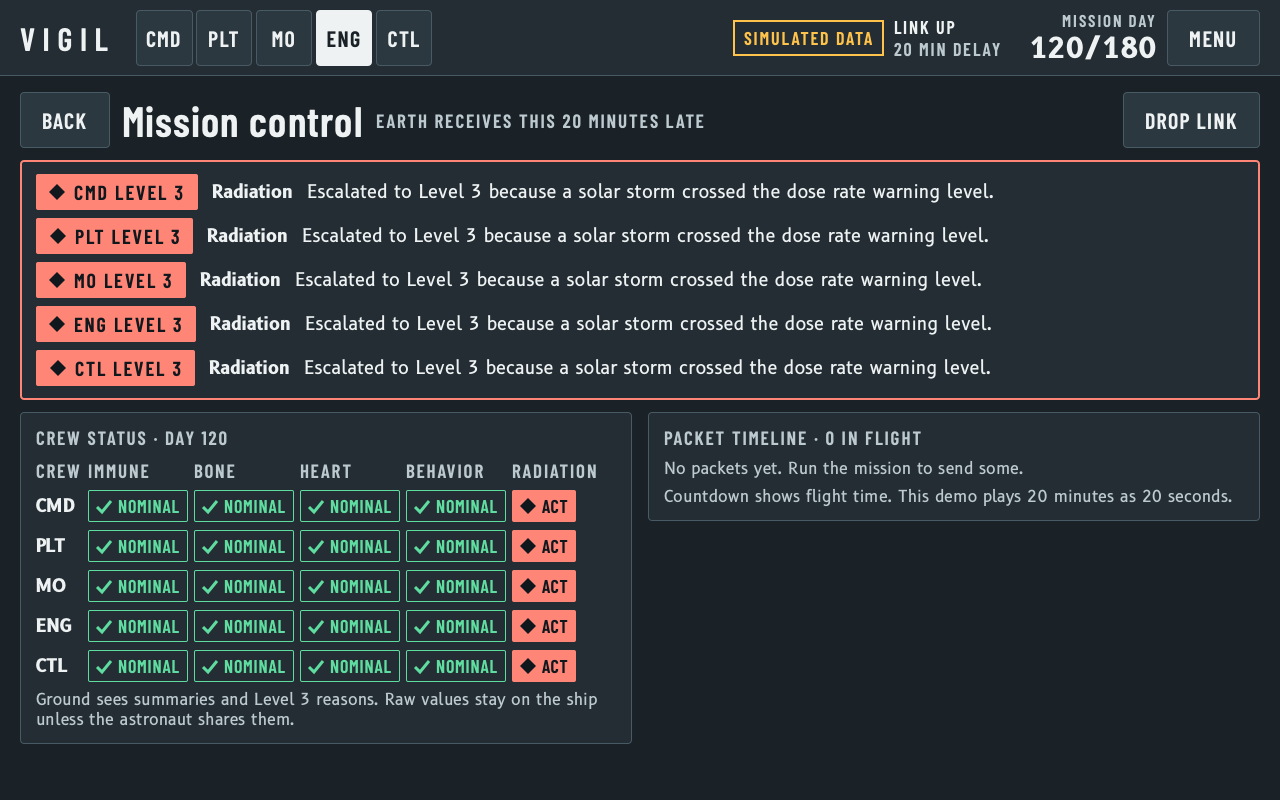
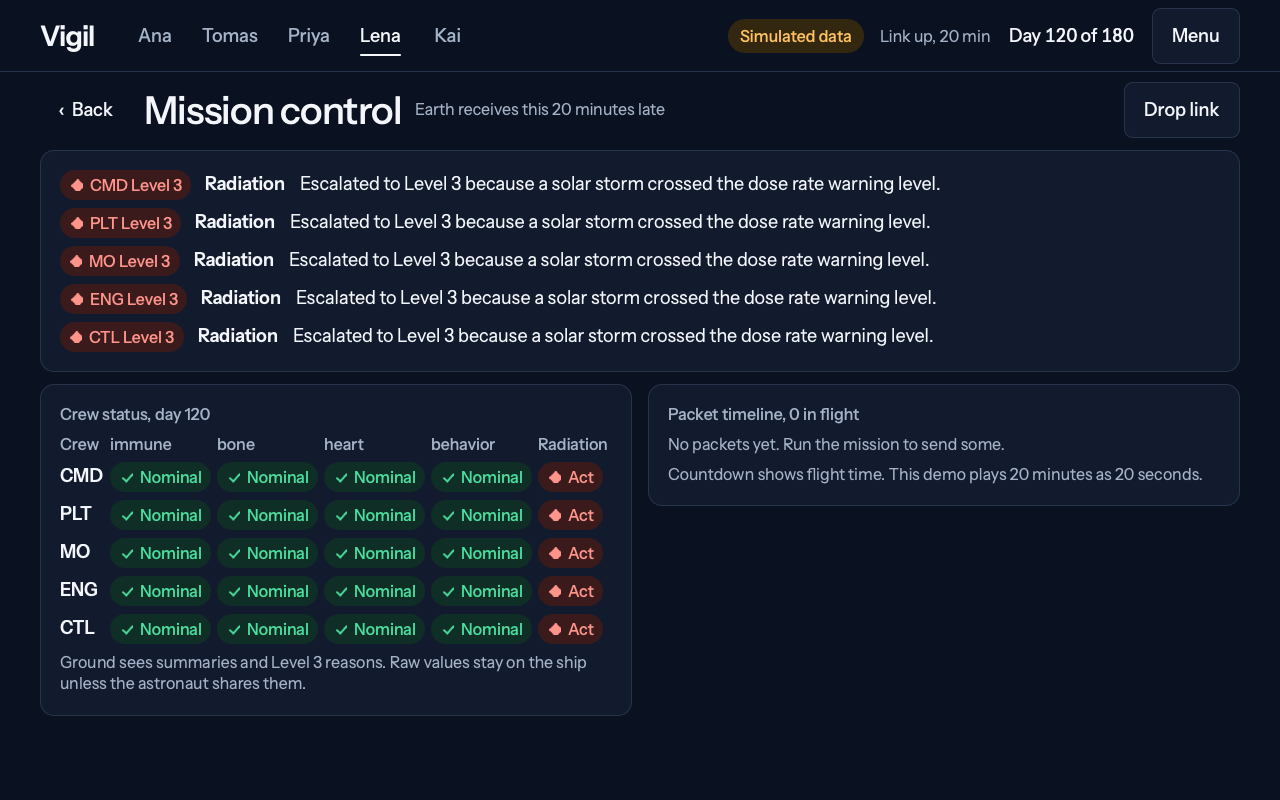
Finish redesign across all screens

diff --git a/frontend/qml/ResultsScreen.qml b/frontend/qml/ResultsScreen.qml
@@ -6,7 +6,7 @@ Item {
     readonly property var d: Api.ask("results", { v: vigil.version })
 
     function verdict(e) {
-        if (e.id === "solar_storm") return "Vigil passed on the monitor's warning " + Math.abs(e.vigil_vs_onset.mean) + " hours before onset. A fixed dose alarm fires " + e.fixed_alarm.mean + " hours after onset."
+        if (e.id === "solar_storm") return "Vigil passed on the monitor's warning " + Math.abs(e.vigil_vs_onset.mean) + " hours before onset. A fixed dose alarm fires " + e.fixed_alarm.mean + (e.fixed_alarm.mean === 1 ? " hour" : " hours") + " after onset."
         var quiet = e.fixed.quiet, lead = quiet.lead_vigil_earlier, missed = quiet.missed_by_fixed_found_by_vigil
         var never = missed > 0 ? " The fixed alarm never fired in " + missed + " of " + e.runs + " runs." : ""
         if (lead.n === 0 || lead.mean === null) return "A fixed alarm never fired." + never

diff --git a/frontend/qml/AlertScreen.qml b/frontend/qml/AlertScreen.qml
@@ -66,7 +66,7 @@ Item {
                     Layout.fillWidth: true
                     visible: !!screen.d.protocol
                     divider: true
-                    title: screen.d.protocol ? screen.d.protocol.name + " · " + screen.d.protocol.minutes + " min" : ""
+                    title: screen.d.protocol ? screen.d.protocol.name.charAt(0).toUpperCase() + screen.d.protocol.name.slice(1) + ", " + screen.d.protocol.minutes + " min" : ""
                     Body { text: screen.d.protocol ? screen.d.protocol.steps.join(" ") : "" }
                     Note { text: screen.d.protocol ? "Stop and escalate if: " + screen.d.protocol.escalate_if + " " + screen.d.protocol_label : "" }
                 }

diff --git a/frontend/qml/GroundScreen.qml b/frontend/qml/GroundScreen.qml
@@ -64,7 +64,7 @@ Item {
                     columnSpacing: 6
                     rowSpacing: 8
                     Placard { text: "Crew" }
-                    Repeater { model: screen.systemKeys; Placard { required property string modelData; text: modelData } }
+                    Repeater { model: screen.systemKeys; Placard { required property string modelData; text: modelData.charAt(0).toUpperCase() + modelData.slice(1) } }
                     Placard { text: "Radiation" }
                     Repeater {
                         model: screen.d.crew.length * (screen.systemKeys.length + 2)

diff --git a/frontend/qml/EarthScreen.qml b/frontend/qml/EarthScreen.qml
@@ -46,7 +46,7 @@ Item {
                             Row {
                                 required property string modelData
                                 spacing: 6
-                                Placard { text: modelData; anchors.verticalCenter: parent.verticalCenter }
+                                Placard { text: modelData.charAt(0).toUpperCase() + modelData.slice(1); anchors.verticalCenter: parent.verticalCenter }
                                 StatusPill { status: screen.d.preview.systems[modelData]; compact: true }
                             }
                         }

diff --git a/frontend/qml/Ribbon.qml b/frontend/qml/Ribbon.qml
@@ -51,7 +51,7 @@ Canvas {
             if (!n) return 0
             var p = u * (n - 1), i = Math.floor(p), f = p - i
             var e = f * f * (3 - 2 * f)
-            return Math.min(1, (smooth[i] + (smooth[Math.min(i + 1, n - 1)] - smooth[i]) * e) / 60)
+            return Math.max(0, Math.min(1, (smooth[i] + (smooth[Math.min(i + 1, n - 1)] - smooth[i]) * e - 25) / 60))
         }
         function thickness(u) { return (70 + 130 * Math.sin(u * Math.PI)) * (1 + 0.9 * amount(u)) }
         function twist(u) { return Math.cos(u * 3.05 + 0.25) }

diff --git a/scripts/evaluate_detector.py b/scripts/evaluate_detector.py
@@ -193,7 +193,7 @@ def write_markdown(out: dict, path: Path) -> None:
     storm = next(e for e in out["events"] if e["id"] == "solar_storm")
     lines += [
         "", f"The storm warning comes from the simulated solar monitor. Vigil relays it {abs(storm['vigil_vs_onset']['mean'])} hours before onset. Vigil does not predict storms. "
-        f"A fixed dose rate alarm at twice normal fires {storm['fixed_alarm']['mean']} hours after onset.", "",
+        f"A fixed dose rate alarm at twice normal fires {storm['fixed_alarm']['mean']} hour(s) after onset.", "",
         "## Against fixed population limits", "",
         "A fixed limit is one number for everyone: population mean plus k standard deviations.",
         "**Sensitive** uses k = 2. **Quiet** uses k = 3, the fixed setting closest to Vigil's false alarm rate. "

diff --git a/docs/design-principles.md b/docs/design-principles.md
@@ -7,11 +7,11 @@ Vigil follows the eight principles in Apple's Human Interface Guidelines. Vigil 
 | **Purpose.** Make something meaningful. | The one question is "Am I still me?" | Home answers it first: All Clear, Watching, or an alert in plain words. Personal baselines are the core idea, and the rest supports them. |
 | **Agency.** Let people do things their own way. | A tired person makes mistakes. A guided flow must never trap them. | Undo after every alert action, also on Ctrl+Z. Shelter steps can be skipped or gone back through. The Demo Director has Next and Stop. Every screen has Back, and Esc does the same. |
 | **Responsibility.** Act in people's best interest. | Health data is personal, and bad advice can hurt. | A first-run card says what Vigil does and does not do. A Why? view explains each alert. Raw values and journal text stay private unless shared. There is no server and no open port. Every alert says it is not a diagnosis. Escalating to Earth asks first, because a sent packet cannot be recalled. |
-| **Familiarity.** Build on what people know. | Crews already read caution and warning panels. | Status looks like a spacecraft annunciator: a lit legend with a shape and a word. Back, Menu and the crew switch stay in the same place on every screen. Green, yellow and red mean one thing everywhere. |
+| **Familiarity.** Build on what people know. | Crews already read caution and warning panels. | Status is always a shape and a word, like the labels crews read on real panels. Back, Menu and the crew switch stay in the same place on every screen. Green, yellow and red mean one thing everywhere. |
 | **Flexibility.** Adapt to diverse contexts and needs. | Gloves, dim cabins, different bodies, and different input. | Touch targets are at least 56 px and tests enforce it. Touch, mouse and keyboard all work. Charts read with arrow keys. Dark, light and low-blue night themes. A Reduce Motion setting. Screen reader names on controls. Runs on Linux, macOS and Windows, in a window or fullscreen. |
 | **Simplicity.** Be clear and direct. | No one reads a paragraph during a solar storm. | Each alert has one action. Short sentences at about an 8th grade level. Details stay one tap away in Why?. |
-| **Craft.** Care about every detail. | The display has to be trusted. | B612, a typeface made for cockpit screens. Contrast of at least 4.5:1 is tested in all themes. Every screen is rendered and checked for QML errors by the test suite. |
-| **Delight.** Make it human. | The feeling to aim for is calm, not alarm. | "Same heart rate. Different meaning." is the defining moment. A lamp flickers once when a state turns serious, then stays still. Nothing moves just to decorate. |
+| **Craft.** Care about every detail. | The display has to be trusted. | One typeface, with tabular numbers so values do not jump. Contrast of at least 4.5:1 is tested in all themes. Every screen is rendered and checked for QML errors by the test suite. |
+| **Delight.** Make it human. | The feeling to aim for is calm, not alarm. | "Same heart rate. Different meaning." is the defining moment. The ribbon on Home is the last 30 days of this person's drift. It is calm and cool when all is well, and it swells and warms as they drift. It is data, not decoration. |
 
 ## From the Accessory Design Guidelines
 

diff --git a/DECISIONS.md b/DECISIONS.md
@@ -7,7 +7,7 @@ Choices the brief left open, and what was picked.
 3. **Python 3.12** is the runtime. It meets the 3.11+ rule and has wheels for every pinned package.
 4. **Native Qt 6 Quick through PySide6.** The team asked for real software that can run on a Linux computer aboard a vehicle, not a web page, Electron, or an Apple-only app. Qt runs on Linux, macOS and Windows. PySide6 keeps the whole team in Python, and QML is close to the JavaScript one member knows. The evaluated engine is the same code that ships.
 5. **No server.** The FastAPI layer was removed. The screens call the engine in process, so there is no open port on the vehicle and nothing separate to start. The old web build is at git tag `web-prototype`.
-6. **Fonts.** B612 was commissioned by Airbus for cockpit screens, so it fits the job. Barlow Condensed is used for placard labels. Both are bundled as files in `frontend/fonts`. Apple's San Francisco is licensed for Apple platforms only.
+6. **Font.** Instrument Sans in three weights, bundled in `frontend/fonts`. It is modern and has tabular numbers. Apple's San Francisco is licensed for Apple platforms only.
 7. **No optional C++ module.** The pure Python engine runs a full mission fast enough, so C++ would add risk with no benefit.
 8. **Tuning seeds are separate from reporting seeds.** Thresholds were tuned on seeds 1000 to 1019. `docs/results.md` uses seeds 2000 to 2019.
 9. **Debounce added to the detectors.** Daily signals need 2 readings in a row to turn a flag on or off. Without it there were about 14 false alarms per 100 days.
@@ -25,6 +25,9 @@ Choices the brief left open, and what was picked.
 21. **Streaming mission days.** The brief asked for an API endpoint. With no server, the mission clock plays days at a chosen speed through Play Mission and the Admin setting.
 22. **Sensors screen added.** The Accessory Design Guidelines led to showing connection and battery. Missing readings come from the real data gaps. Batteries are simulated.
 23. **Undo added.** Done, Snooze and Escalate can be undone for 8 seconds, or with Ctrl+Z. A packet already sent to Earth cannot be recalled, so Vigil asks before sending one.
-24. **Mission Control follows the app theme.** It is dark by default. Forcing it dark in every theme would need a second set of components.
+24. **Mission Control is always dark.** The brief asks for a dark control room, so it stays dark in every theme. Its second window runs its own interface engine for this.
 25. **Packaging with PyInstaller.** `make package` gives a folder that needs no Python. It must be built on the target operating system and CPU.
 26. **Dependencies were cut.** SciPy was unused. FastAPI, Uvicorn and Pydantic went with the server. Pandas and Matplotlib are only for scripts.
+27. **Light theme is the default.** The brief said dark first. The team then asked for a more modern look and pointed to a light reference. Dark and low-blue night themes remain in the Menu.
+28. **Visual language changed.** Sentence case, soft surfaces, and two-tone statements replaced uppercase labels, boxed panels and monospace numbers, which read as machine-made.
+29. **The ribbon is data.** It draws the last 30 days of the person's highest system drift. It is the one expressive element, in keeping with the Delight principle.

diff --git a/PROGRESS.md b/PROGRESS.md
@@ -26,3 +26,7 @@
 - Restore point for the web build: git tag `web-prototype`.
 - Checked: 210 tests passed on macOS in a full run, including every screen. 6 more tests that drive the main screen actions were added and passed on their own. Startup to a loaded Home screen takes about 1.1 seconds. The standalone package builds (158 MB) and passes its own --check.
 - Docs rewritten for the native app: README, pitch, demo script, Q&A, manual tests, design principles.
+
+## Modern redesign (done)
+- Done: light default theme, Instrument Sans, sentence case, soft surfaces, two-tone statements, and a ribbon on Home drawn from each person's real 30-day drift. Mission Control stays dark.
+- Checked: 216 tests pass on macOS. The earlier Qt build also passed all 216 on Linux ARM64 with networking disabled.

diff --git a/docs/results.md b/docs/results.md
@@ -15,7 +15,7 @@ Delay is days after event onset until the first flag on a planted signal. Events
 | Solar particle event | all | 20/20 | -2 hours (sd 0.0) | L3: 20 | dose_rate 20 |
 | Heart drift | cmdr | 20/20 | 4.95 days (sd 1.36) | L2: 19, L3: 1 | hrv 20, ortho_rise 19, resting_hr 20 |
 
-The storm warning comes from the simulated solar monitor. Vigil relays it 2 hours before onset. Vigil does not predict storms. A fixed dose rate alarm at twice normal fires 1 hours after onset.
+The storm warning comes from the simulated solar monitor. Vigil relays it 2 hours before onset. Vigil does not predict storms. A fixed dose rate alarm at twice normal fires 1 hour(s) after onset.
 
 ## Against fixed population limits
 
